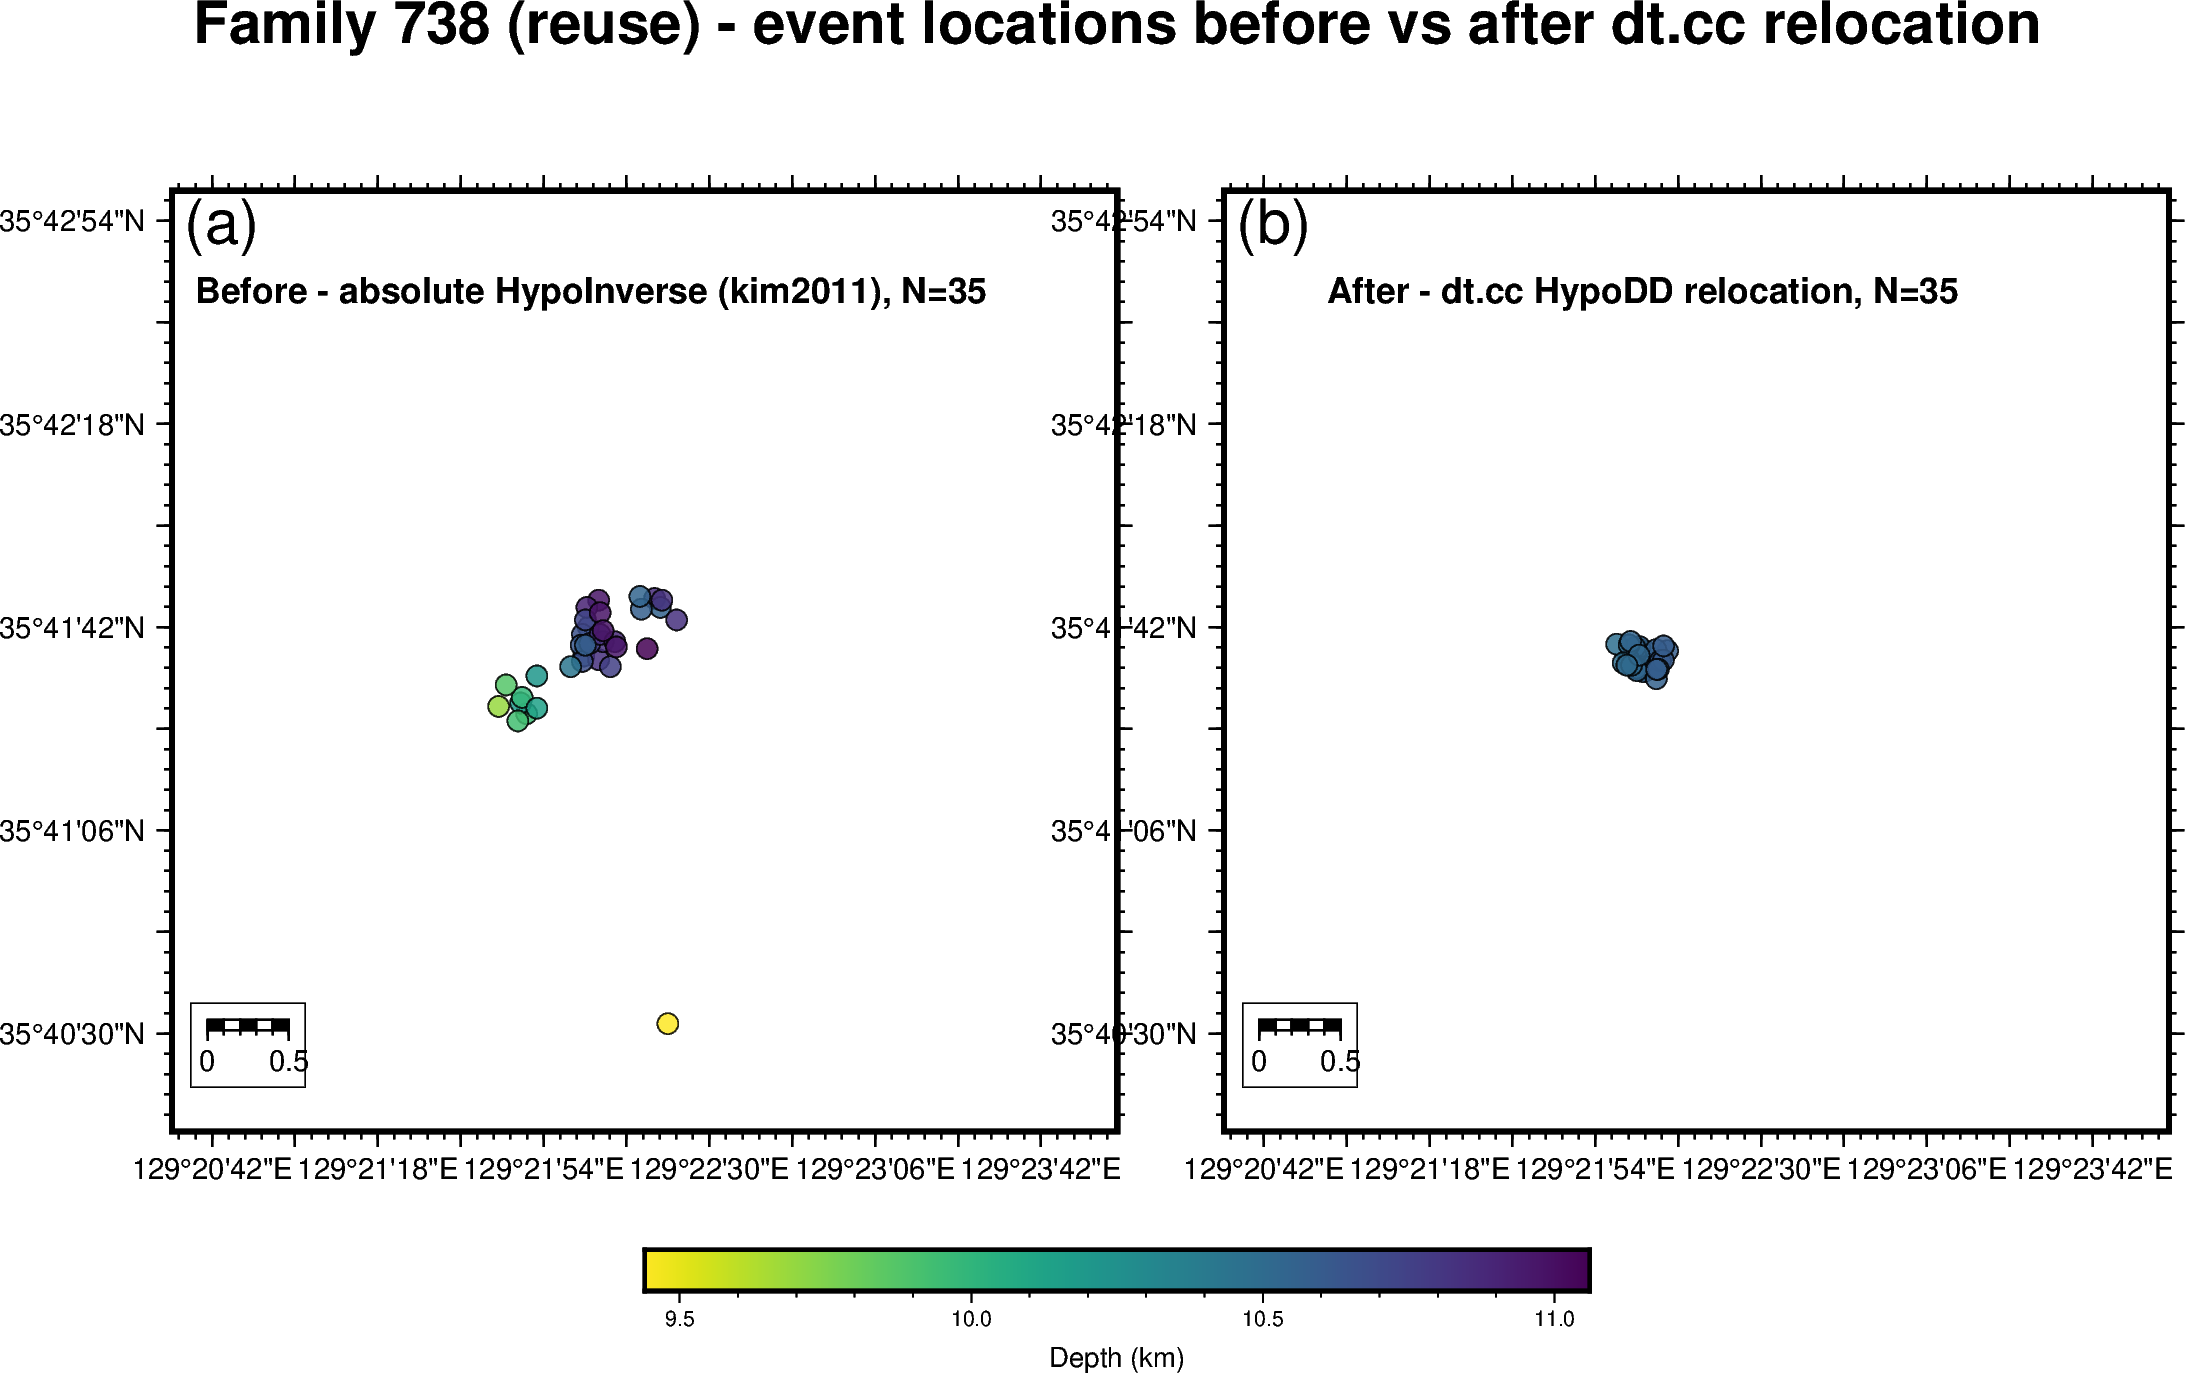
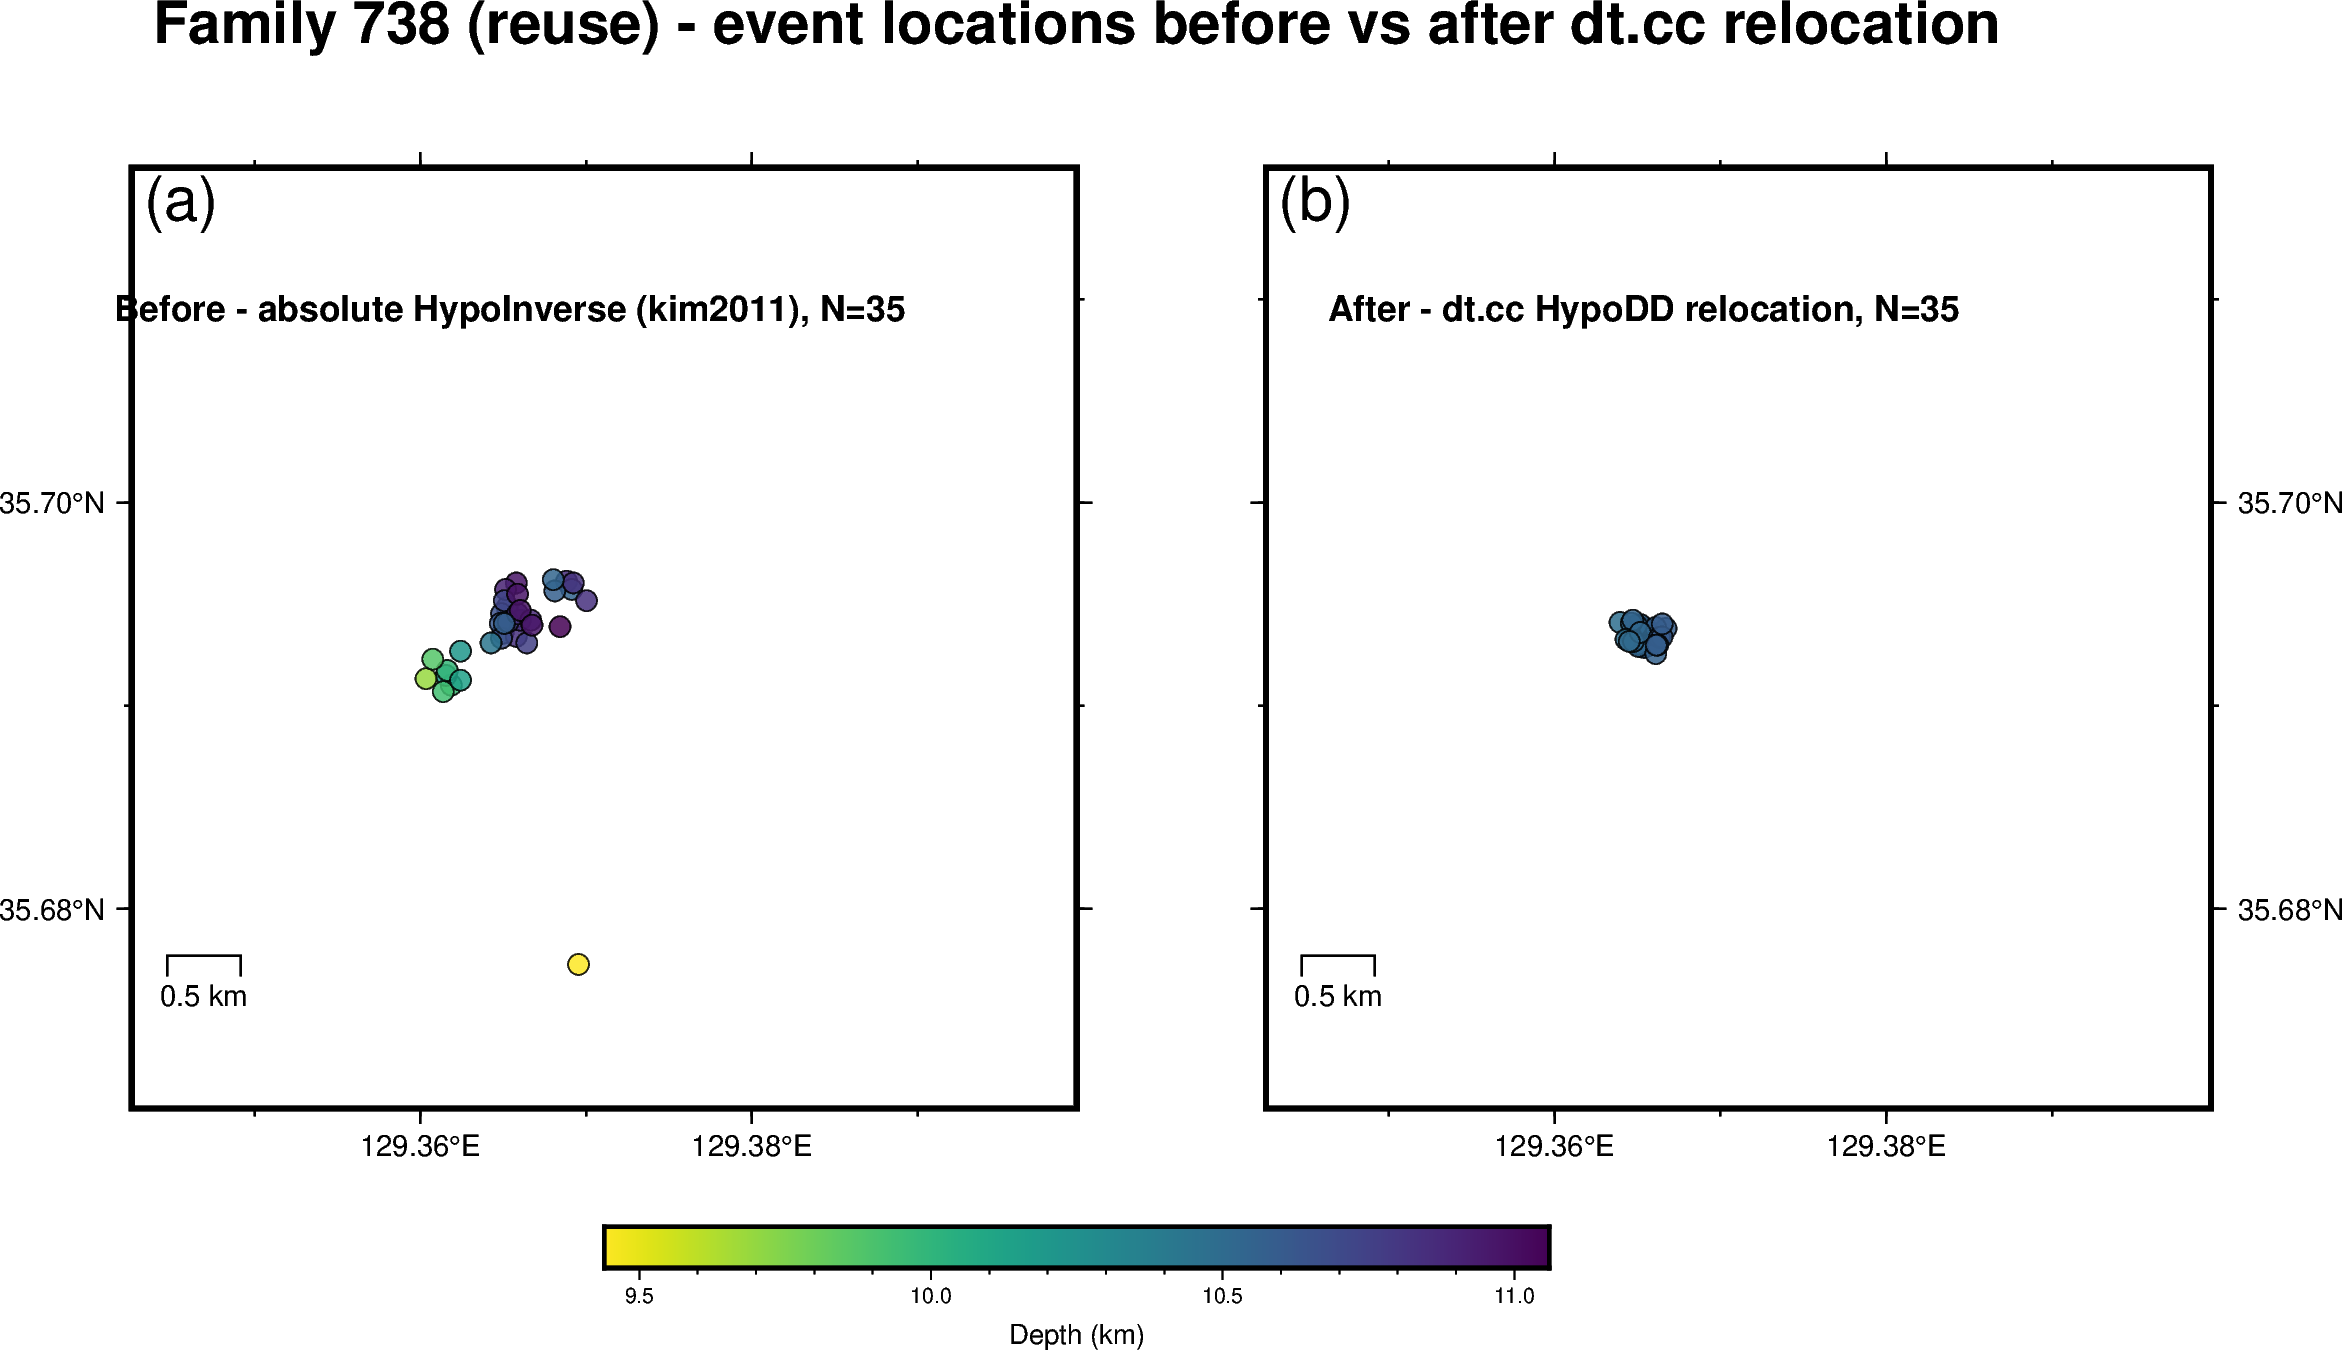
relocation/: PyGMT map polish + time-lapse GIF for the reuse summary
Revisions to the reuse summary visuals (no pipeline re-run; figures re-rendered from existing reloc):
- pygmt_reloc_map.py: decimal-degree axes (2 dp, FORMAT_GEO_MAP=ddd.xxF) instead of d:m:s; panel (b)
  annotates the RIGHT y-axis so the two panels' tick labels no longer collide; plain scale bar with no
  surrounding box; wider inter-panel gap.
- build_summary_nb.py: add the PocketQuake-style time-lapse GIF (viz.animate_seismicity, SVD fault
  frame) at a slow 2 fps (45 frames = 22.5 s loop), saved to family738/f738_reuse_seismicity.gif and
  embedded (image/gif) for slides.
- Commit the GIF + revised PyGMT PNG as durable deliverables.

(The A/A'/B/B' map-view label inset is a companion fix in the korea-cluster-relocation viz.py.)

diff --git a/KS_KG/relocation/pygmt_reloc_map.py b/KS_KG/relocation/pygmt_reloc_map.py
@@ -50,19 +50,20 @@ def make_map(slug="f738_reuse"):
 
     fig = pygmt.Figure()
     pygmt.config(FONT_HEADING="14p,Helvetica-Bold", FONT_ANNOT_PRIMARY="7p", FONT_LABEL="9p",
-                 MAP_TITLE_OFFSET="6p", MAP_FRAME_TYPE="plain")
+                 MAP_TITLE_OFFSET="6p", MAP_FRAME_TYPE="plain", FORMAT_GEO_MAP="ddd.xxF")
     pygmt.makecpt(cmap="viridis", series=[dmin, dmax], reverse=True)
-    panels = [(A, f"Before - absolute HypoInverse (kim2011), N={len(A)}"),
-              (D, f"After - dt.cc HypoDD relocation, N={len(D)}")]
-    with fig.subplot(nrows=1, ncols=2, figsize=("16c", "8c"), margins="0.7c", autolabel="(a)",
+    # panel (a) annotates the LEFT y-axis, panel (b) the RIGHT — so inter-panel labels never collide
+    panels = [(A, "WSne", f"Before - absolute HypoInverse (kim2011), N={len(A)}"),
+              (D, "wSnE", f"After - dt.cc HypoDD relocation, N={len(D)}")]
+    with fig.subplot(nrows=1, ncols=2, figsize=("16c", "8c"), margins=["1.4c", "0.5c"], autolabel="(a)",
                      title=f"Family 738 ({slug.replace('f738_', '')}) - event locations before vs after dt.cc relocation"):
-        for j, (df, lab) in enumerate(panels):
+        for j, (df, sides, lab) in enumerate(panels):
             with fig.set_panel(j):
-                fig.basemap(region=region, projection="M8c", frame=["WSne", "xa0.005f0.001", "ya0.005f0.001"])
+                fig.basemap(region=region, projection="M8c", frame=[sides, "xa0.02f0.01", "ya0.02f0.01"])
                 fig.plot(x=df.lon, y=df.lat, size=sizes(df.mag), fill=df.depth, cmap=True,
                          style="cc", pen="0.3p,black", transparency=15)
                 fig.text(position="TC", text=lab, font="8.5p,Helvetica-Bold", offset="0c/-0.3c", no_clip=True)
-                fig.basemap(map_scale="jBL+w0.5k+o0.3c/0.3c+f", box="+gwhite@30+p0.3p")
+                fig.basemap(map_scale="jBL+w0.5k+o0.3c/0.3c")          # plain scale bar, no surrounding box
     fig.colorbar(position="JBC+w8c/0.35c+h+o0c/1.0c", frame=["xaf+lDepth (km)"], cmap=True)
     out = os.path.join(OUT, f"pygmt_reloc_{slug}.png")
     fig.savefig(out, dpi=300)

diff --git a/KS_KG/relocation/build_summary_nb.py b/KS_KG/relocation/build_summary_nb.py
@@ -85,6 +85,18 @@ positions (hollow), so nothing is silently hidden.""")
 co("""viz.fault_sections(cfg, velmodel=VELMODEL, frame_from="svd", color_by="time", show_bootstrap=True); plt.show()
 viz.map_catalog(cfg, velmodel=VELMODEL, source="reloc", include_all=True, show_errors=False); plt.show()""")
 
+md("""### Time-lapse animation (GIF) — cumulative seismicity in the fault frame
+
+`viz.animate_seismicity` is the animated twin of the fault-frame sections above (PocketQuake's summary
+GIF): events accumulate by **origin time** in the same SVD fault-frame layout, with a time-vs-magnitude
+clock. Saved at a **slow 2 fps** to `family738/<cluster>_seismicity.gif` for use in slides.""")
+co("""ANIM_FPS, ANIM_FRAMES = 2, 45        # slow + readable (45 frames / 2 fps = 22.5 s loop)
+gif_path = os.path.join("family738", f"{CLUSTER}_seismicity.gif")
+viz.animate_seismicity(cfg, velmodel=VELMODEL, frame_from="svd", fps=ANIM_FPS,
+                       frames=ANIM_FRAMES, out_path=gif_path)
+plt.close("all")                       # the FuncAnimation leaves an extra static fig open
+display(Image(filename=gif_path))""")
+
 md("""### HypoDD link map — inter-event differential-time connectivity""")
 co("""viz.link_maps(cfg, velmodel=VELMODEL); plt.show()""")
 